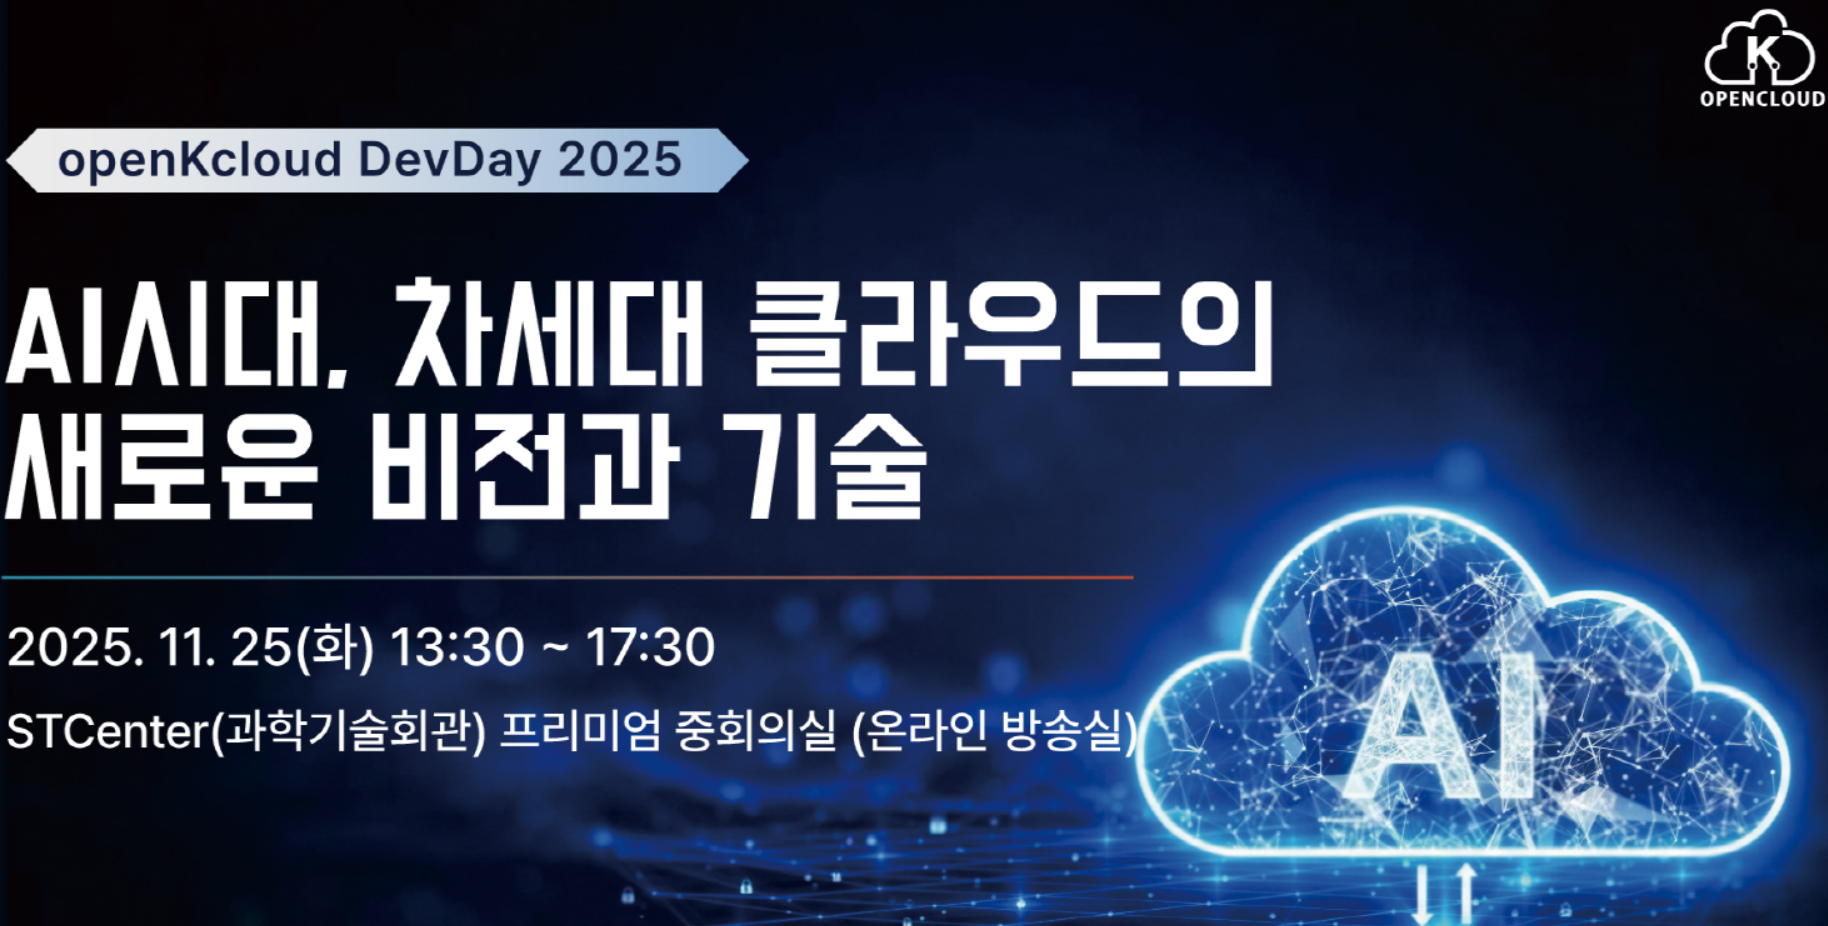
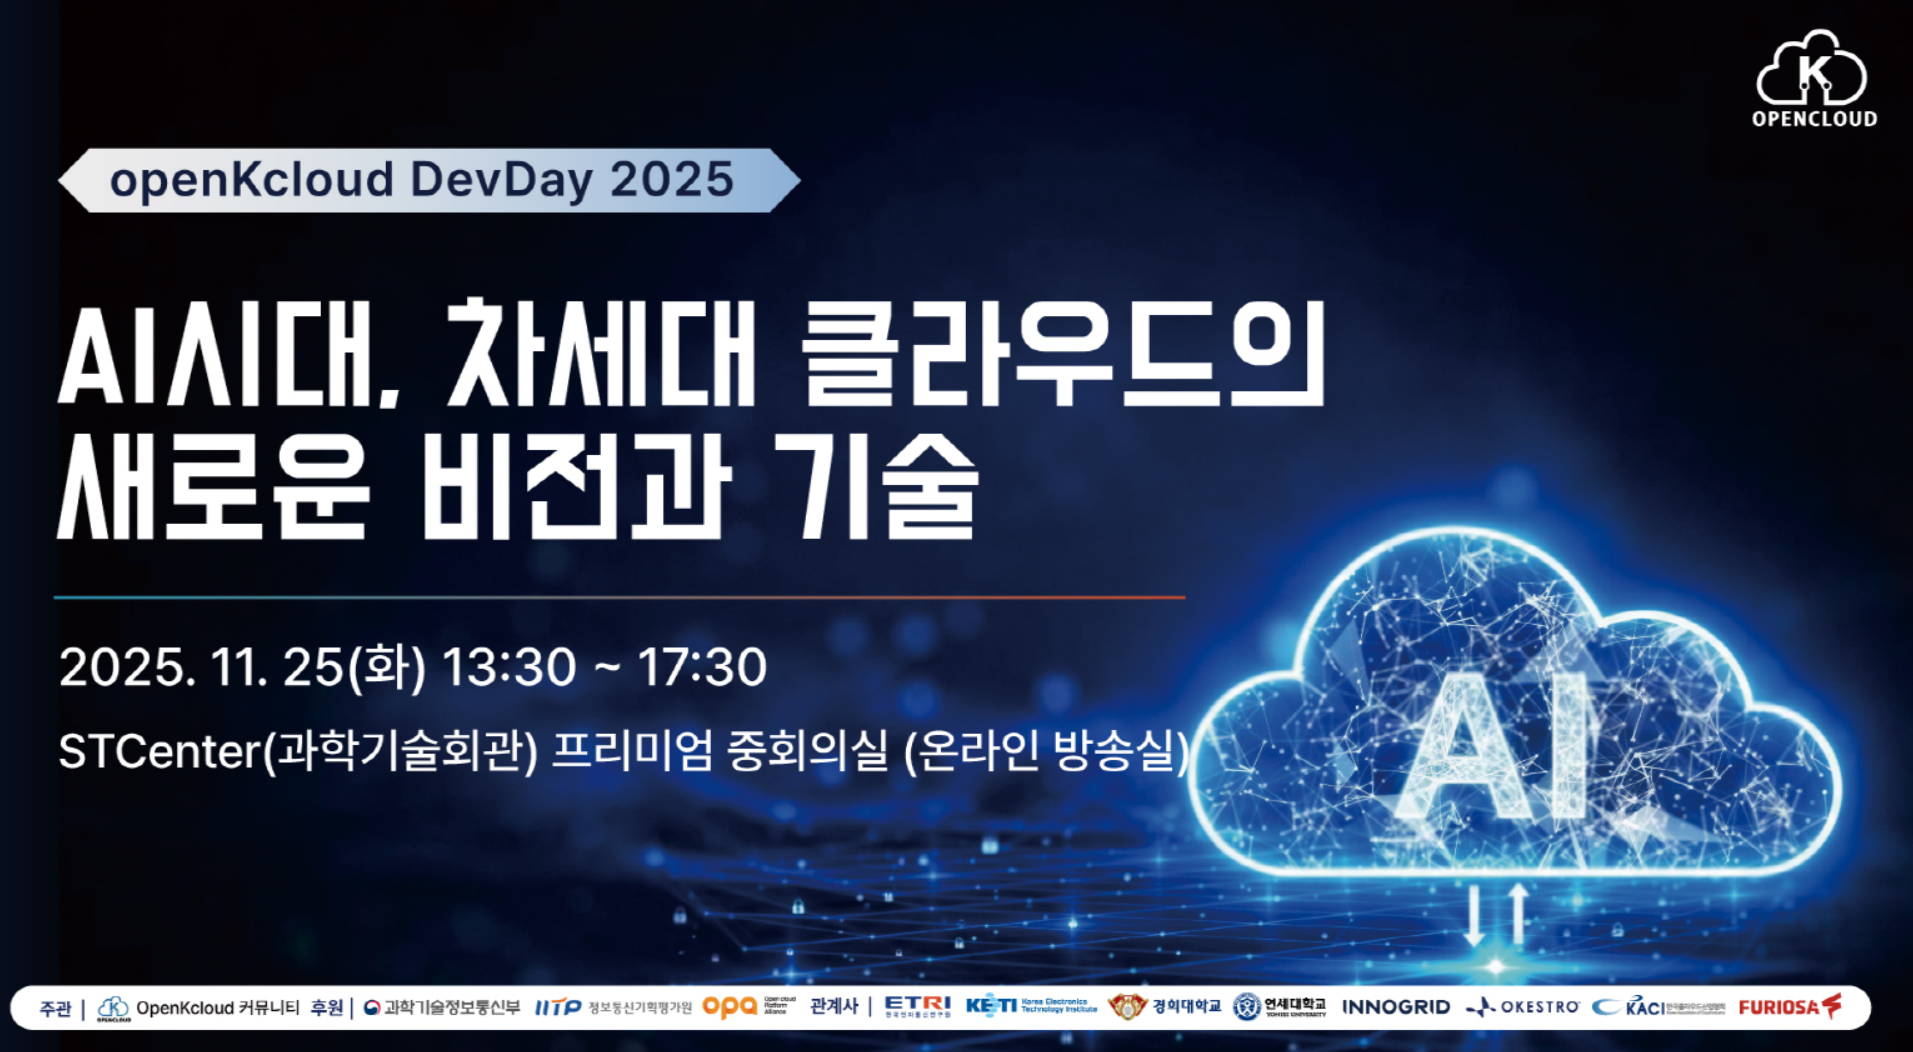
Update news card event image

diff --git a/index.html b/index.html
@@ -1098,7 +1098,7 @@
       <!-- BLOG 4 -->
       <div class="news-card reveal" data-cat="blog" onclick="openNewsDrawer('news-tech-blog')">
         <div class="news-card-img">
-          <img src="images/26collabday.png" alt="openKcloud 1stWorkshop 2026" class="news-card-thumb">
+          <img src="images/openkcloud_1stworkshop_2026.png" alt="openKcloud 1stWorkshop 2026" class="news-card-thumb">
         </div>
         <div class="news-card-body">
           <div class="news-meta">
@@ -1115,7 +1115,9 @@
       </div>
       <!-- BLOG 3 -->
       <div class="news-card reveal" data-cat="blog" onclick="openNewsDrawer('news-ecosystem-1')">
-        <div class="news-card-img">📑</div>
+        <div class="news-card-img">
+          <img src="images/devday_2025_release.png" alt="openKcloud 1strelease 2025" class="news-card-thumb">
+        </div>
         <div class="news-card-body">
           <div class="news-meta">
             <span class="news-date">2025.12.25</span>
@@ -1132,7 +1134,9 @@
 
       <!-- RELEASE 1 -->
       <div class="news-card reveal" data-cat="release" onclick="openNewsDrawer('news-v010')">
-        <div class="news-card-img">🚀</div>
+        <div class="news-card-img">
+          <img src="images/openkcloud_v0.1.0.png" alt="openkcloud_v0.1.0" class="news-card-thumb">          
+        </div>
         <div class="news-card-body">
           <div class="news-meta">
             <span class="news-date">2025.11.27</span>
@@ -1148,7 +1152,9 @@
       </div>
       <!-- ROADMAP 1 -->
       <div class="news-card reveal" data-cat="roadmap" onclick="openNewsDrawer('news-roadmap-step1')">
-        <div class="news-card-img">🧭</div>
+        <div class="news-card-img">
+          <img src="images/openkcloud_2025.png" alt="openkcloud_dev_2025.png" class="news-card-thumb">                  
+        </div>
         <div class="news-card-body">
           <div class="news-meta">
             <span class="news-date">2025.11.25</span>
